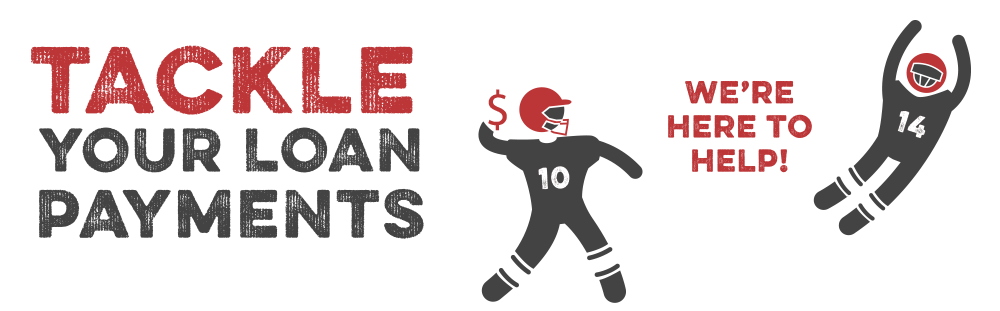
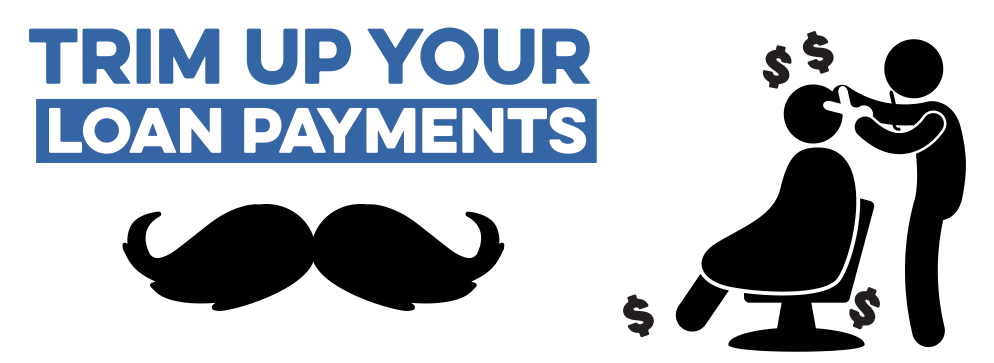
Adjust styles, add images for new microsite, delete unused image.

diff --git a/css/main.css b/css/main.css
@@ -1,1 +1,1 @@
[2 lines of base64/hex data omitted]

diff --git a/css/src/main.scss b/css/src/main.scss
@@ -4,7 +4,7 @@
 $yellow: #F3C25B;
 $teal: #83BAB2;
 $green: #8B9E74;
-$red: #c22032;
+$red: #C22032;
 $grey: #414042;
 $navy: #1E376C;
 
@@ -35,25 +35,29 @@ $navy: #1E376C;
 // header styles
 header {
 	position: relative;
-	background: url(../img/bg-head.jpg) bottom center no-repeat;
+	background: url(../img/bg-header.png) bottom center no-repeat;
 	background-size: cover;
 	padding-bottom: 5px;
-}
-
-
-
-.subhead {
-	background: url(../img/bg-subhead.jpg) center center no-repeat;
-	background-size: cover;
-	padding: 4px 0 0;
-	border-bottom: 20px solid $navy;
+	padding: 10px;
 
 	@include respond-to( 768px ) {
-		padding: 14px 0 10px;
-		border-bottom: 30px solid $navy;
+		padding: 30px;
+	}
+
+	@include respond-to( 1024px ) {
+		padding: 50px;
+	}
+
+	.wrap {
+		background: white;
+		padding: 10px;
+		box-shadow: 5px 5px 10px rgba( black, .1 );
+
+		@include respond-to( 1024px ) {
+			padding: 25px;
+		}
 	}
 }
-
 
 
 // wrap div
@@ -71,28 +75,34 @@ header {
 	font-size: 20px;
 	line-height: 28px;
 
-	h2, p {
-		padding: 10px 0;
-	}
-
 	h2 {
-		font-size: 20px;
-		line-height: 28px;
-		@include font-bold;
+		font-size: 25px;
+		line-height: 30px;
+		padding: 10px 0;
 		color: $red;
 	}
 
+	h3 {
+		font-size: 22px;
+		line-height: 30px;
+		padding: 10px 0;
+		@include font;
+	}
+
 	@include respond-to( 768px ) {
-		padding: 40px 120px;
+		padding: 40px 80px;
 		font-size: 28px;
 		line-height: 40px;
 
 		h2 {
-			font-size: 28px;
-			line-height: 40px;
+			font-size: 40px;
+			line-height: 45px;
+			padding: 20px 0;
 		}
 
-		h2, p {
+		h3 {
+			font-size: 35px;
+			line-height: 40px;
 			padding: 20px 0;
 		}
 	}
@@ -110,21 +120,13 @@ header {
 
 
 
-.footer-bar {
-	background: url(../img/border-footer.png) center center no-repeat;
-	background-size: cover;
-	height: 45px;
-	border-top: 4px solid lighten( $grey, 40% );
-	box-shadow: 0 7px 7px rgba( $grey, .4 );
-}
-
-
 
 // footer styles
 footer {
 	color: $grey;
 	padding: 30px 20px;
 	text-align: center;
+	border-top: 20px solid $red;
 	@include clearfix;
 }
 
@@ -132,8 +134,8 @@ footer {
 
 .fine-print {
 	padding: 20px 0 0;
-	font-size: .85em;
-	line-height: 1.3em;
-	text-align: right;
+	font-size: .8em;
+	line-height: 1.2em;
+	text-align: left;
 }
 

diff --git a/index.html b/index.html
@@ -26,8 +26,8 @@
 		
 		<div class="main-content wrap text-center">
 
-			<p>Do your loan payments keep you down? Would you like to pay less each month? Have credit issues or loan denials kept you from applying in the past?</p>
-			<h2>We can help!</h2>
+			<h2>If we can't cut your auto loan payment, we'll give you $100!*</h2>
+			<h3>Take advantage while the offer is still in style!</h3>
 			<p><a href="https://www5.homecu.net/fi/pafcu/loan-application.html"><img src="img/button-apply.png"></a></p>
 
 		</div>
@@ -45,7 +45,7 @@
 				</div>
 
 				<div class="fine-print group">
-					Federally insured by the National Credit Union Administration. 
+					Offer subject to credit approval. Peoples Advantage Payment Cut program is meant to save members money. However, the rate offered to each member will not go below the members qualified rate. Verification of current payment is required. Loans currently financed with the credit union are not eligible for this offer. Collateralized loans may not exceed 100% Loan to Value and have a term no greater than 60 months. Unsecured loans may not exceed the borrowers suggested unsecured limits based on credit union policy. Credit cards do not apply. Any exception to the credit union loan policy will not be honored. Rate subject to change at any time without notice. Offer may end at any time. For complete details, contact the credit union. Federally insured by the National Credit Union Administration. 
 				</div>
 
 			</div>
